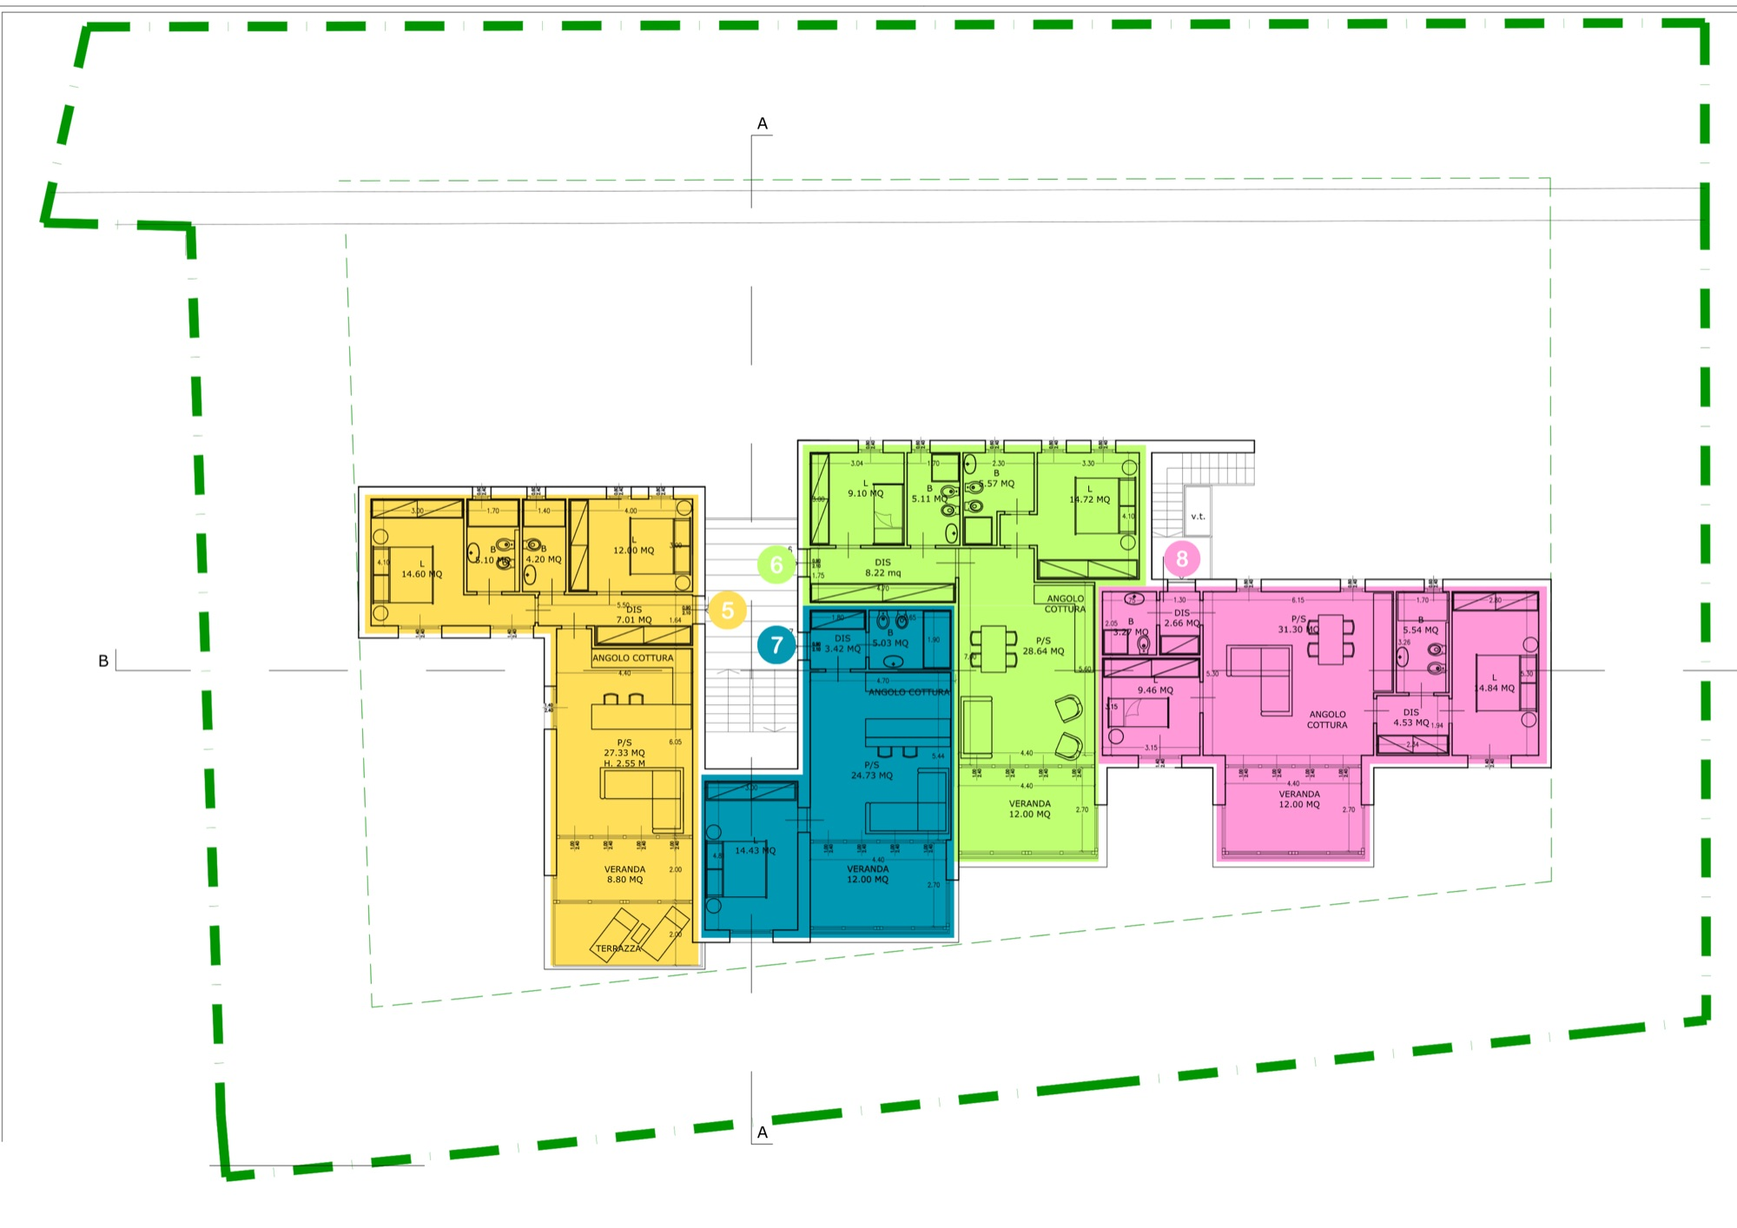
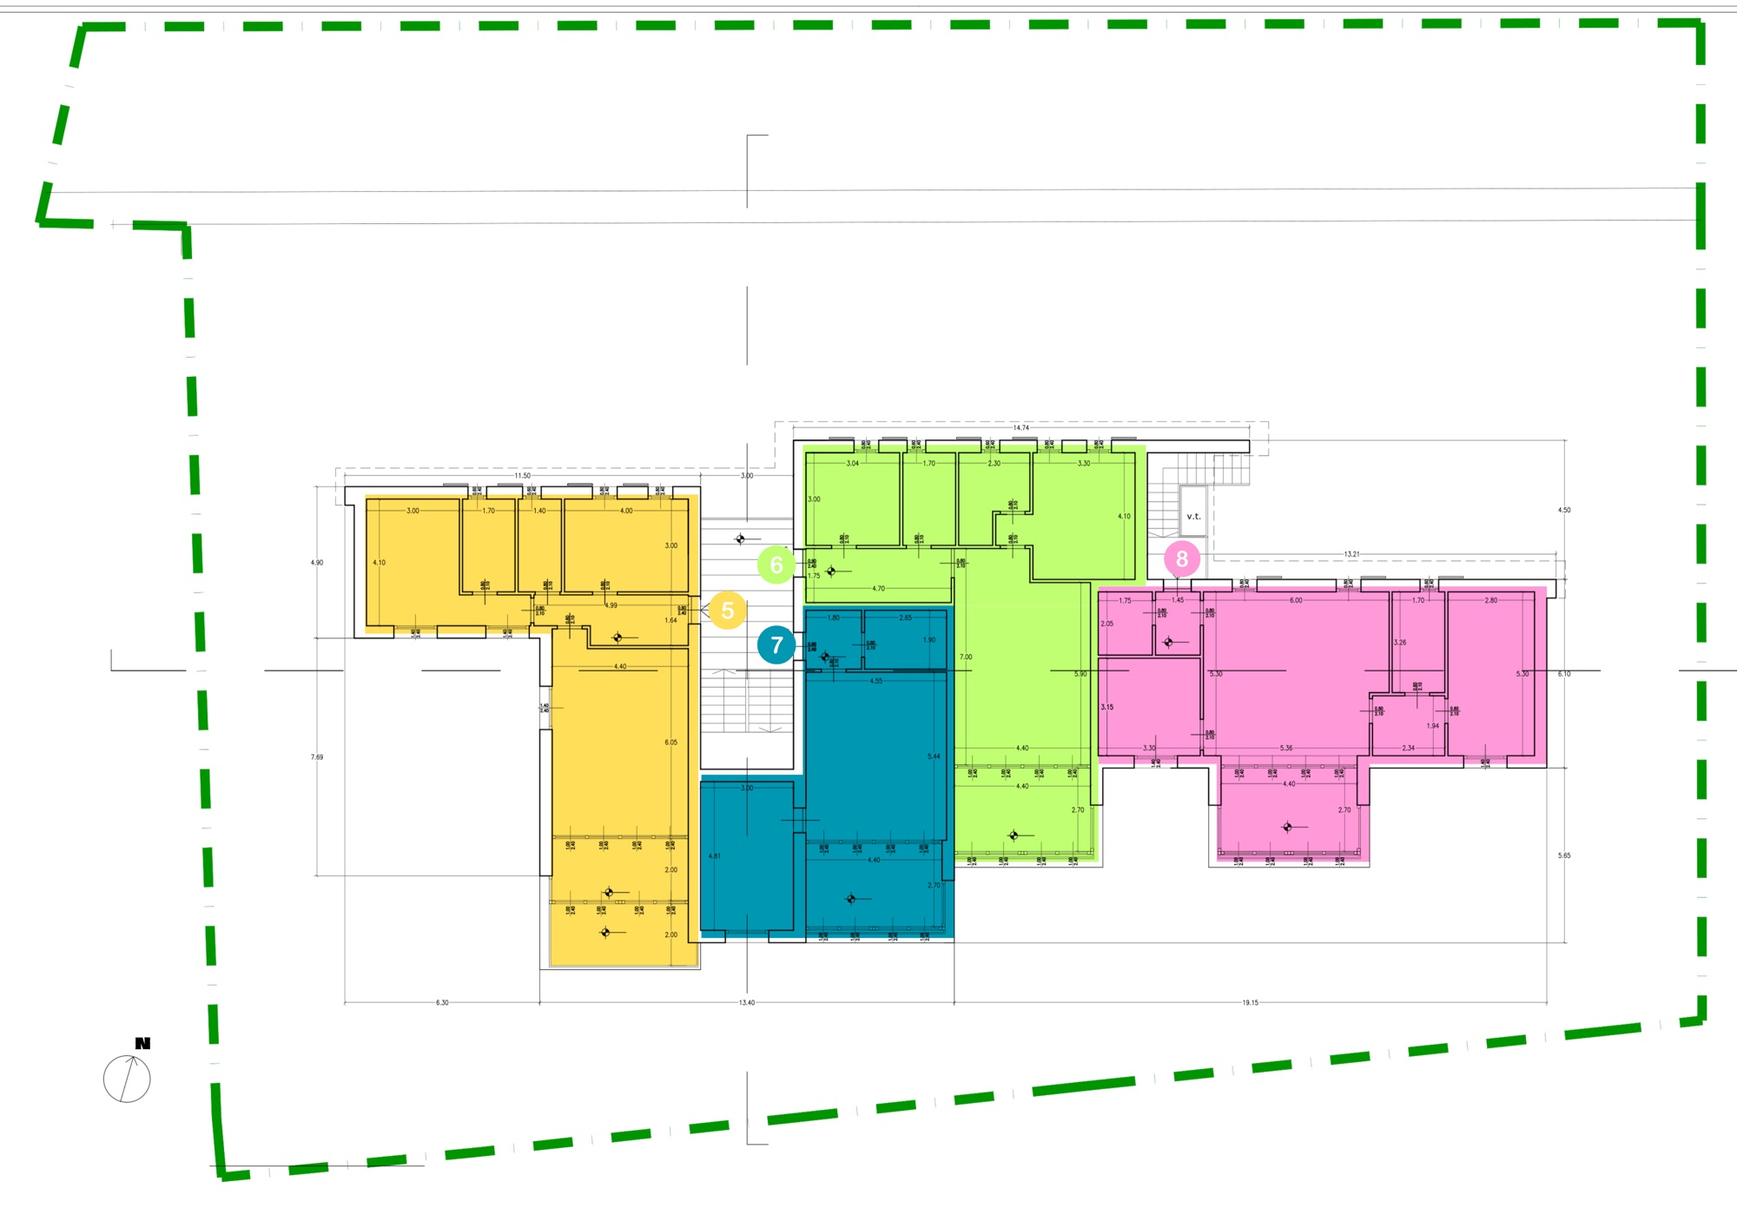
Planimetrie 3/7 aggiornate, keyplan e prospetto nuovi, rotazioni popup, superfici commerciali
- Sostituite planimetrie unità 3 e 7 (nuovi disegni)
- Keyplan piano terra/primo aggiornate (arredo rimosso, modifiche minori);
  hotspot invariati e ri-verificati per colore/posizione
- Prospetto sotto hero sostituito col nuovo render
- Planimetrie unità 1,2,3,6,7 ruotate 90° orari (popup + slider, stesso file);
  unità 4 e 8 invariate
- Superfici: solo commerciali, rimosso ovunque il riferimento "interni"
  (slide, popup JS, tabella, IT+EN); area esterna mantenuta
- Confermata assenza di "posto auto coperto" e dell'opzione duplex 3+7

diff --git a/en/index.html b/en/index.html
@@ -189,7 +189,7 @@
             <th>Layout</th>
             <th>Bed.</th>
             <th>Baths</th>
-            <th>Comm. interior</th>
+            <th>Commercial</th>
             <th>Outdoor area</th>
             <th>Price</th>
           </tr>
@@ -270,7 +270,7 @@
           <div class="slide__num">01</div>
           <div>
             <div class="slide__title">Unit 1 · Ground floor</div>
-            <div class="slide__meta">2-bed · 2 bedrooms · 2 baths · 97 m² commercial interior · 280 m² outdoor area · Parking within the private garden</div>
+            <div class="slide__meta">2-bed · 2 bedrooms · 2 baths · 97 m² commercial · 280 m² outdoor area · Parking within the private garden</div>
           </div>
           <div class="slide__price">€ 441,000<span class="slide__validity">Prices excluding VAT · valid until 31 July 2026</span></div>
         </div>
@@ -282,7 +282,7 @@
           <div class="slide__num">02</div>
           <div>
             <div class="slide__title">Unit 2 · Ground floor</div>
-            <div class="slide__meta">2-bed · 2 bedrooms · 2 baths · 97 m² commercial interior · 52 m² outdoor area · Outdoor parking space included</div>
+            <div class="slide__meta">2-bed · 2 bedrooms · 2 baths · 97 m² commercial · 52 m² outdoor area · Outdoor parking space included</div>
           </div>
           <div class="slide__price">€ 396,000<span class="slide__validity">Prices excluding VAT · valid until 31 July 2026</span></div>
         </div>
@@ -294,7 +294,7 @@
           <div class="slide__num">03</div>
           <div>
             <div class="slide__title">Unit 3 · Ground floor</div>
-            <div class="slide__meta">1-bed · 1 bedroom · 1 bath · 70 m² commercial interior · 47 m² outdoor area · Outdoor parking space included</div>
+            <div class="slide__meta">1-bed · 1 bedroom · 1 bath · 70 m² commercial · 47 m² outdoor area · Outdoor parking space included</div>
           </div>
           <div class="slide__price">€ 288,000<span class="slide__validity">Prices excluding VAT · valid until 31 July 2026</span></div>
         </div>
@@ -306,7 +306,7 @@
           <div class="slide__num">04</div>
           <div>
             <div class="slide__title">Unit 4 · Ground floor</div>
-            <div class="slide__meta">2-bed · 2 bedrooms · 2 baths · 102 m² commercial interior · 226 m² outdoor area · Parking within the private garden</div>
+            <div class="slide__meta">2-bed · 2 bedrooms · 2 baths · 102 m² commercial · 226 m² outdoor area · Parking within the private garden</div>
           </div>
           <div class="slide__price">€ 459,000<span class="slide__validity">Prices excluding VAT · valid until 31 July 2026</span></div>
         </div>
@@ -320,7 +320,7 @@
           <div class="slide__num">05</div>
           <div>
             <div class="slide__title">Unit 5 · First floor</div>
-            <div class="slide__meta">2-bed · 2 bedrooms · 2 baths · 97 m² commercial interior</div>
+            <div class="slide__meta">2-bed · 2 bedrooms · 2 baths · 97 m² commercial</div>
           </div>
           <div class="slide__price"><span class="sold-tag">Sold</span></div>
         </div>
@@ -332,7 +332,7 @@
           <div class="slide__num">06</div>
           <div>
             <div class="slide__title">Unit 6 · First floor</div>
-            <div class="slide__meta">2-bed · 2 bedrooms · 2 baths · 97 m² commercial interior · Outdoor parking space included</div>
+            <div class="slide__meta">2-bed · 2 bedrooms · 2 baths · 97 m² commercial · Outdoor parking space included</div>
           </div>
           <div class="slide__price">€ 351,000<span class="slide__validity">Prices excluding VAT · valid until 31 July 2026</span></div>
         </div>
@@ -344,7 +344,7 @@
           <div class="slide__num">07</div>
           <div>
             <div class="slide__title">Unit 7 · First floor</div>
-            <div class="slide__meta">1-bed · 1 bedroom · 1 bath · 70 m² commercial interior · Outdoor parking space included</div>
+            <div class="slide__meta">1-bed · 1 bedroom · 1 bath · 70 m² commercial · Outdoor parking space included</div>
           </div>
           <div class="slide__price">€ 261,000<span class="slide__validity">Prices excluding VAT · valid until 31 July 2026</span></div>
         </div>
@@ -356,7 +356,7 @@
           <div class="slide__num">08</div>
           <div>
             <div class="slide__title">Unit 8 · First floor</div>
-            <div class="slide__meta">2-bed · 2 bedrooms · 2 baths · 102 m² commercial interior · Outdoor parking space included</div>
+            <div class="slide__meta">2-bed · 2 bedrooms · 2 baths · 102 m² commercial · Outdoor parking space included</div>
           </div>
           <div class="slide__price">€ 396,000<span class="slide__validity">Prices excluding VAT · valid until 31 July 2026</span></div>
         </div>
@@ -369,7 +369,7 @@
           <div>
             <span class="slide__tag">Combined duplex</span>
             <div class="slide__title">Ground floor of duplex 4 + 8</div>
-            <div class="slide__meta">2-bed duplex · 4 bedrooms · 4 baths · 204 m² commercial interior · 226 m² outdoor area · Garden parking plus outdoor space</div>
+            <div class="slide__meta">2-bed duplex · 4 bedrooms · 4 baths · 204 m² commercial · 226 m² outdoor area · Garden parking plus outdoor space</div>
           </div>
           <div class="slide__price">€ 855,000<span class="slide__validity">Prices excluding VAT · valid until 31 July 2026</span></div>
         </div>
@@ -382,7 +382,7 @@
           <div>
             <span class="slide__tag">Combined duplex</span>
             <div class="slide__title">Upper floor of duplex 4 + 8</div>
-            <div class="slide__meta">2-bed duplex · 4 bedrooms · 4 baths · 204 m² commercial interior · 226 m² outdoor area · Garden parking plus outdoor space</div>
+            <div class="slide__meta">2-bed duplex · 4 bedrooms · 4 baths · 204 m² commercial · 226 m² outdoor area · Garden parking plus outdoor space</div>
           </div>
           <div class="slide__price">€ 855,000<span class="slide__validity">Prices excluding VAT · valid until 31 July 2026</span></div>
         </div>
@@ -676,14 +676,14 @@
     const box = document.getElementById('planbox');
     if (!box) return;
     const UNITS = {
-      1: { img: '../assets/planimetrie/unit-1.jpg', title: 'Unit 1 · Ground floor', meta: '2-bed · 2 bedrooms · 2 baths · 97 m² commercial interior · 280 m² outdoor area · Parking within the private garden', price: '€ 441,000' },
-      2: { img: '../assets/planimetrie/unit-2.jpg', title: 'Unit 2 · Ground floor', meta: '2-bed · 2 bedrooms · 2 baths · 97 m² commercial interior · 52 m² outdoor area · Outdoor parking space included', price: '€ 396,000' },
-      3: { img: '../assets/planimetrie/unit-3.jpg', title: 'Unit 3 · Ground floor', meta: '1-bed · 1 bedroom · 1 bath · 70 m² commercial interior · 47 m² outdoor area · Outdoor parking space included', price: '€ 288,000' },
-      4: { img: '../assets/planimetrie/unit-4.jpg', title: 'Unit 4 · Ground floor', meta: '2-bed · 2 bedrooms · 2 baths · 102 m² commercial interior · 226 m² outdoor area · Parking within the private garden', price: '€ 459,000' },
-      5: { img: null, title: 'Unit 5 · First floor', meta: '2-bed · 2 bedrooms · 2 baths · 97 m² commercial interior', sold: true },
-      6: { img: '../assets/planimetrie/unit-6.jpg', title: 'Unit 6 · First floor', meta: '2-bed · 2 bedrooms · 2 baths · 97 m² commercial interior · Outdoor parking space included', price: '€ 351,000' },
-      7: { img: '../assets/planimetrie/unit-7.jpg', title: 'Unit 7 · First floor', meta: '1-bed · 1 bedroom · 1 bath · 70 m² commercial interior · Outdoor parking space included', price: '€ 261,000' },
-      8: { img: '../assets/planimetrie/unit-8.jpg', title: 'Unit 8 · First floor', meta: '2-bed · 2 bedrooms · 2 baths · 102 m² commercial interior · Outdoor parking space included', price: '€ 396,000' }
+      1: { img: '../assets/planimetrie/unit-1.jpg', title: 'Unit 1 · Ground floor', meta: '2-bed · 2 bedrooms · 2 baths · 97 m² commercial · 280 m² outdoor area · Parking within the private garden', price: '€ 441,000' },
+      2: { img: '../assets/planimetrie/unit-2.jpg', title: 'Unit 2 · Ground floor', meta: '2-bed · 2 bedrooms · 2 baths · 97 m² commercial · 52 m² outdoor area · Outdoor parking space included', price: '€ 396,000' },
+      3: { img: '../assets/planimetrie/unit-3.jpg', title: 'Unit 3 · Ground floor', meta: '1-bed · 1 bedroom · 1 bath · 70 m² commercial · 47 m² outdoor area · Outdoor parking space included', price: '€ 288,000' },
+      4: { img: '../assets/planimetrie/unit-4.jpg', title: 'Unit 4 · Ground floor', meta: '2-bed · 2 bedrooms · 2 baths · 102 m² commercial · 226 m² outdoor area · Parking within the private garden', price: '€ 459,000' },
+      5: { img: null, title: 'Unit 5 · First floor', meta: '2-bed · 2 bedrooms · 2 baths · 97 m² commercial', sold: true },
+      6: { img: '../assets/planimetrie/unit-6.jpg', title: 'Unit 6 · First floor', meta: '2-bed · 2 bedrooms · 2 baths · 97 m² commercial · Outdoor parking space included', price: '€ 351,000' },
+      7: { img: '../assets/planimetrie/unit-7.jpg', title: 'Unit 7 · First floor', meta: '1-bed · 1 bedroom · 1 bath · 70 m² commercial · Outdoor parking space included', price: '€ 261,000' },
+      8: { img: '../assets/planimetrie/unit-8.jpg', title: 'Unit 8 · First floor', meta: '2-bed · 2 bedrooms · 2 baths · 102 m² commercial · Outdoor parking space included', price: '€ 396,000' }
     };
     const SOLD_LABEL = 'Sold';
     const imgEl = document.getElementById('planbox-img');

diff --git a/index.html b/index.html
@@ -189,7 +189,7 @@
             <th>Tipologia</th>
             <th>Camere</th>
             <th>Bagni</th>
-            <th>Comm. interni</th>
+            <th>Commerciali</th>
             <th>Area esterna</th>
             <th>Listino</th>
           </tr>
@@ -270,7 +270,7 @@
           <div class="slide__num">01</div>
           <div>
             <div class="slide__title">Unità 1 · Piano terra</div>
-            <div class="slide__meta">Trilocale · 2 camere · 2 bagni · 97 m² comm. interni · 280 m² area esterna · Parcheggio nel giardino privato</div>
+            <div class="slide__meta">Trilocale · 2 camere · 2 bagni · 97 m² commerciali · 280 m² area esterna · Parcheggio nel giardino privato</div>
           </div>
           <div class="slide__price">€ 441.000<span class="slide__validity">Prezzi IVA esclusa · validi fino al 31.07.2026</span></div>
         </div>
@@ -282,7 +282,7 @@
           <div class="slide__num">02</div>
           <div>
             <div class="slide__title">Unità 2 · Piano terra</div>
-            <div class="slide__meta">Trilocale · 2 camere · 2 bagni · 97 m² comm. interni · 52 m² area esterna · Posto auto esterno incluso</div>
+            <div class="slide__meta">Trilocale · 2 camere · 2 bagni · 97 m² commerciali · 52 m² area esterna · Posto auto esterno incluso</div>
           </div>
           <div class="slide__price">€ 396.000<span class="slide__validity">Prezzi IVA esclusa · validi fino al 31.07.2026</span></div>
         </div>
@@ -294,7 +294,7 @@
           <div class="slide__num">03</div>
           <div>
             <div class="slide__title">Unità 3 · Piano terra</div>
-            <div class="slide__meta">Bilocale · 1 camera · 1 bagno · 70 m² comm. interni · 47 m² area esterna · Posto auto esterno incluso</div>
+            <div class="slide__meta">Bilocale · 1 camera · 1 bagno · 70 m² commerciali · 47 m² area esterna · Posto auto esterno incluso</div>
           </div>
           <div class="slide__price">€ 288.000<span class="slide__validity">Prezzi IVA esclusa · validi fino al 31.07.2026</span></div>
         </div>
@@ -306,7 +306,7 @@
           <div class="slide__num">04</div>
           <div>
             <div class="slide__title">Unità 4 · Piano terra</div>
-            <div class="slide__meta">Trilocale · 2 camere · 2 bagni · 102 m² comm. interni · 226 m² area esterna · Parcheggio nel giardino privato</div>
+            <div class="slide__meta">Trilocale · 2 camere · 2 bagni · 102 m² commerciali · 226 m² area esterna · Parcheggio nel giardino privato</div>
           </div>
           <div class="slide__price">€ 459.000<span class="slide__validity">Prezzi IVA esclusa · validi fino al 31.07.2026</span></div>
         </div>
@@ -320,7 +320,7 @@
           <div class="slide__num">05</div>
           <div>
             <div class="slide__title">Unità 5 · Piano primo</div>
-            <div class="slide__meta">Trilocale · 2 camere · 2 bagni · 97 m² comm. interni</div>
+            <div class="slide__meta">Trilocale · 2 camere · 2 bagni · 97 m² commerciali</div>
           </div>
           <div class="slide__price"><span class="sold-tag">Venduto</span></div>
         </div>
@@ -332,7 +332,7 @@
           <div class="slide__num">06</div>
           <div>
             <div class="slide__title">Unità 6 · Piano primo</div>
-            <div class="slide__meta">Trilocale · 2 camere · 2 bagni · 97 m² comm. interni · Posto auto esterno incluso</div>
+            <div class="slide__meta">Trilocale · 2 camere · 2 bagni · 97 m² commerciali · Posto auto esterno incluso</div>
           </div>
           <div class="slide__price">€ 351.000<span class="slide__validity">Prezzi IVA esclusa · validi fino al 31.07.2026</span></div>
         </div>
@@ -344,7 +344,7 @@
           <div class="slide__num">07</div>
           <div>
             <div class="slide__title">Unità 7 · Piano primo</div>
-            <div class="slide__meta">Bilocale · 1 camera · 1 bagno · 70 m² comm. interni · Posto auto esterno incluso</div>
+            <div class="slide__meta">Bilocale · 1 camera · 1 bagno · 70 m² commerciali · Posto auto esterno incluso</div>
           </div>
           <div class="slide__price">€ 261.000<span class="slide__validity">Prezzi IVA esclusa · validi fino al 31.07.2026</span></div>
         </div>
@@ -356,7 +356,7 @@
           <div class="slide__num">08</div>
           <div>
             <div class="slide__title">Unità 8 · Piano primo</div>
-            <div class="slide__meta">Trilocale · 2 camere · 2 bagni · 102 m² comm. interni · Posto auto esterno incluso</div>
+            <div class="slide__meta">Trilocale · 2 camere · 2 bagni · 102 m² commerciali · Posto auto esterno incluso</div>
           </div>
           <div class="slide__price">€ 396.000<span class="slide__validity">Prezzi IVA esclusa · validi fino al 31.07.2026</span></div>
         </div>
@@ -369,7 +369,7 @@
           <div>
             <span class="slide__tag">Duplex accorpato</span>
             <div class="slide__title">Piano terra del duplex 4 + 8</div>
-            <div class="slide__meta">Trilocale duplex · 4 camere · 4 bagni · 204 m² comm. interni · 226 m² area esterna · Parcheggio nel giardino e posto auto esterno</div>
+            <div class="slide__meta">Trilocale duplex · 4 camere · 4 bagni · 204 m² commerciali · 226 m² area esterna · Parcheggio nel giardino e posto auto esterno</div>
           </div>
           <div class="slide__price">€ 855.000<span class="slide__validity">Prezzi IVA esclusa · validi fino al 31.07.2026</span></div>
         </div>
@@ -382,7 +382,7 @@
           <div>
             <span class="slide__tag">Duplex accorpato</span>
             <div class="slide__title">Piano primo del duplex 4 + 8</div>
-            <div class="slide__meta">Trilocale duplex · 4 camere · 4 bagni · 204 m² comm. interni · 226 m² area esterna · Parcheggio nel giardino e posto auto esterno</div>
+            <div class="slide__meta">Trilocale duplex · 4 camere · 4 bagni · 204 m² commerciali · 226 m² area esterna · Parcheggio nel giardino e posto auto esterno</div>
           </div>
           <div class="slide__price">€ 855.000<span class="slide__validity">Prezzi IVA esclusa · validi fino al 31.07.2026</span></div>
         </div>
@@ -676,14 +676,14 @@
     const box = document.getElementById('planbox');
     if (!box) return;
     const UNITS = {
-      1: { img: './assets/planimetrie/unit-1.jpg', title: 'Unità 1 · Piano terra', meta: 'Trilocale · 2 camere · 2 bagni · 97 m² comm. interni · 280 m² area esterna · Parcheggio nel giardino privato', price: '€ 441.000' },
-      2: { img: './assets/planimetrie/unit-2.jpg', title: 'Unità 2 · Piano terra', meta: 'Trilocale · 2 camere · 2 bagni · 97 m² comm. interni · 52 m² area esterna · Posto auto esterno incluso', price: '€ 396.000' },
-      3: { img: './assets/planimetrie/unit-3.jpg', title: 'Unità 3 · Piano terra', meta: 'Bilocale · 1 camera · 1 bagno · 70 m² comm. interni · 47 m² area esterna · Posto auto esterno incluso', price: '€ 288.000' },
-      4: { img: './assets/planimetrie/unit-4.jpg', title: 'Unità 4 · Piano terra', meta: 'Trilocale · 2 camere · 2 bagni · 102 m² comm. interni · 226 m² area esterna · Parcheggio nel giardino privato', price: '€ 459.000' },
-      5: { img: null, title: 'Unità 5 · Piano primo', meta: 'Trilocale · 2 camere · 2 bagni · 97 m² comm. interni', sold: true },
-      6: { img: './assets/planimetrie/unit-6.jpg', title: 'Unità 6 · Piano primo', meta: 'Trilocale · 2 camere · 2 bagni · 97 m² comm. interni · Posto auto esterno incluso', price: '€ 351.000' },
-      7: { img: './assets/planimetrie/unit-7.jpg', title: 'Unità 7 · Piano primo', meta: 'Bilocale · 1 camera · 1 bagno · 70 m² comm. interni · Posto auto esterno incluso', price: '€ 261.000' },
-      8: { img: './assets/planimetrie/unit-8.jpg', title: 'Unità 8 · Piano primo', meta: 'Trilocale · 2 camere · 2 bagni · 102 m² comm. interni · Posto auto esterno incluso', price: '€ 396.000' }
+      1: { img: './assets/planimetrie/unit-1.jpg', title: 'Unità 1 · Piano terra', meta: 'Trilocale · 2 camere · 2 bagni · 97 m² commerciali · 280 m² area esterna · Parcheggio nel giardino privato', price: '€ 441.000' },
+      2: { img: './assets/planimetrie/unit-2.jpg', title: 'Unità 2 · Piano terra', meta: 'Trilocale · 2 camere · 2 bagni · 97 m² commerciali · 52 m² area esterna · Posto auto esterno incluso', price: '€ 396.000' },
+      3: { img: './assets/planimetrie/unit-3.jpg', title: 'Unità 3 · Piano terra', meta: 'Bilocale · 1 camera · 1 bagno · 70 m² commerciali · 47 m² area esterna · Posto auto esterno incluso', price: '€ 288.000' },
+      4: { img: './assets/planimetrie/unit-4.jpg', title: 'Unità 4 · Piano terra', meta: 'Trilocale · 2 camere · 2 bagni · 102 m² commerciali · 226 m² area esterna · Parcheggio nel giardino privato', price: '€ 459.000' },
+      5: { img: null, title: 'Unità 5 · Piano primo', meta: 'Trilocale · 2 camere · 2 bagni · 97 m² commerciali', sold: true },
+      6: { img: './assets/planimetrie/unit-6.jpg', title: 'Unità 6 · Piano primo', meta: 'Trilocale · 2 camere · 2 bagni · 97 m² commerciali · Posto auto esterno incluso', price: '€ 351.000' },
+      7: { img: './assets/planimetrie/unit-7.jpg', title: 'Unità 7 · Piano primo', meta: 'Bilocale · 1 camera · 1 bagno · 70 m² commerciali · Posto auto esterno incluso', price: '€ 261.000' },
+      8: { img: './assets/planimetrie/unit-8.jpg', title: 'Unità 8 · Piano primo', meta: 'Trilocale · 2 camere · 2 bagni · 102 m² commerciali · Posto auto esterno incluso', price: '€ 396.000' }
     };
     const SOLD_LABEL = 'Venduto';
     const imgEl = document.getElementById('planbox-img');
